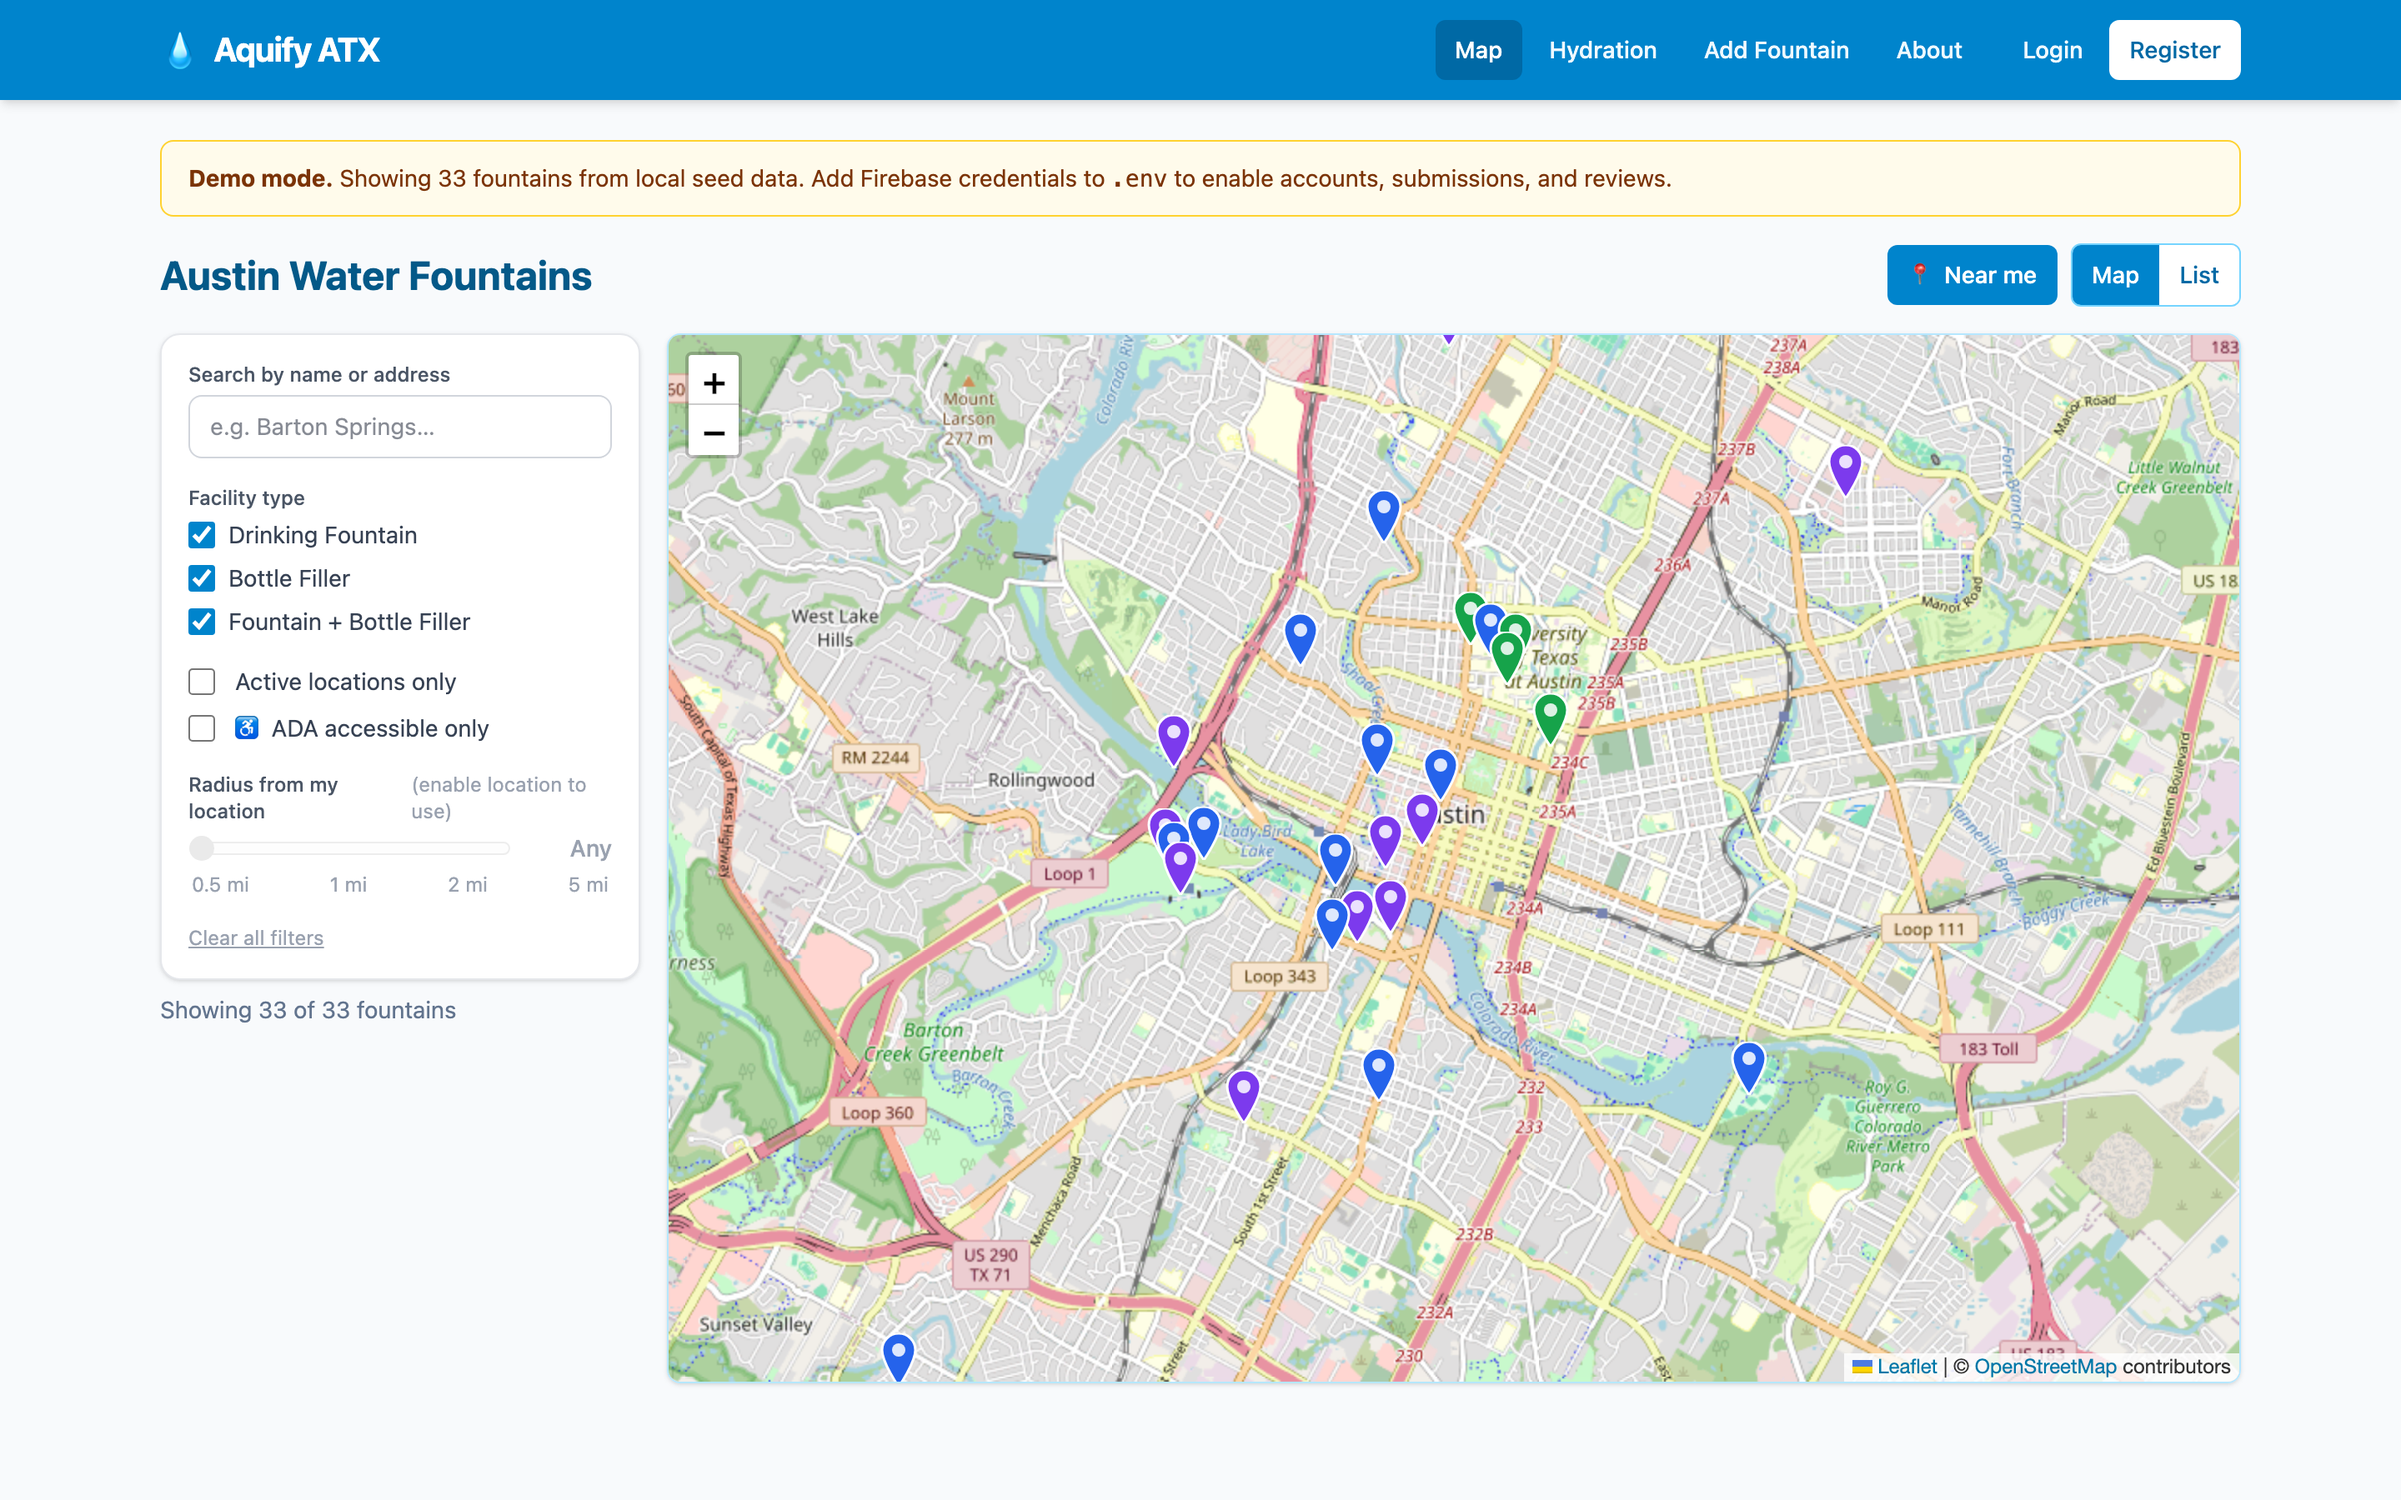
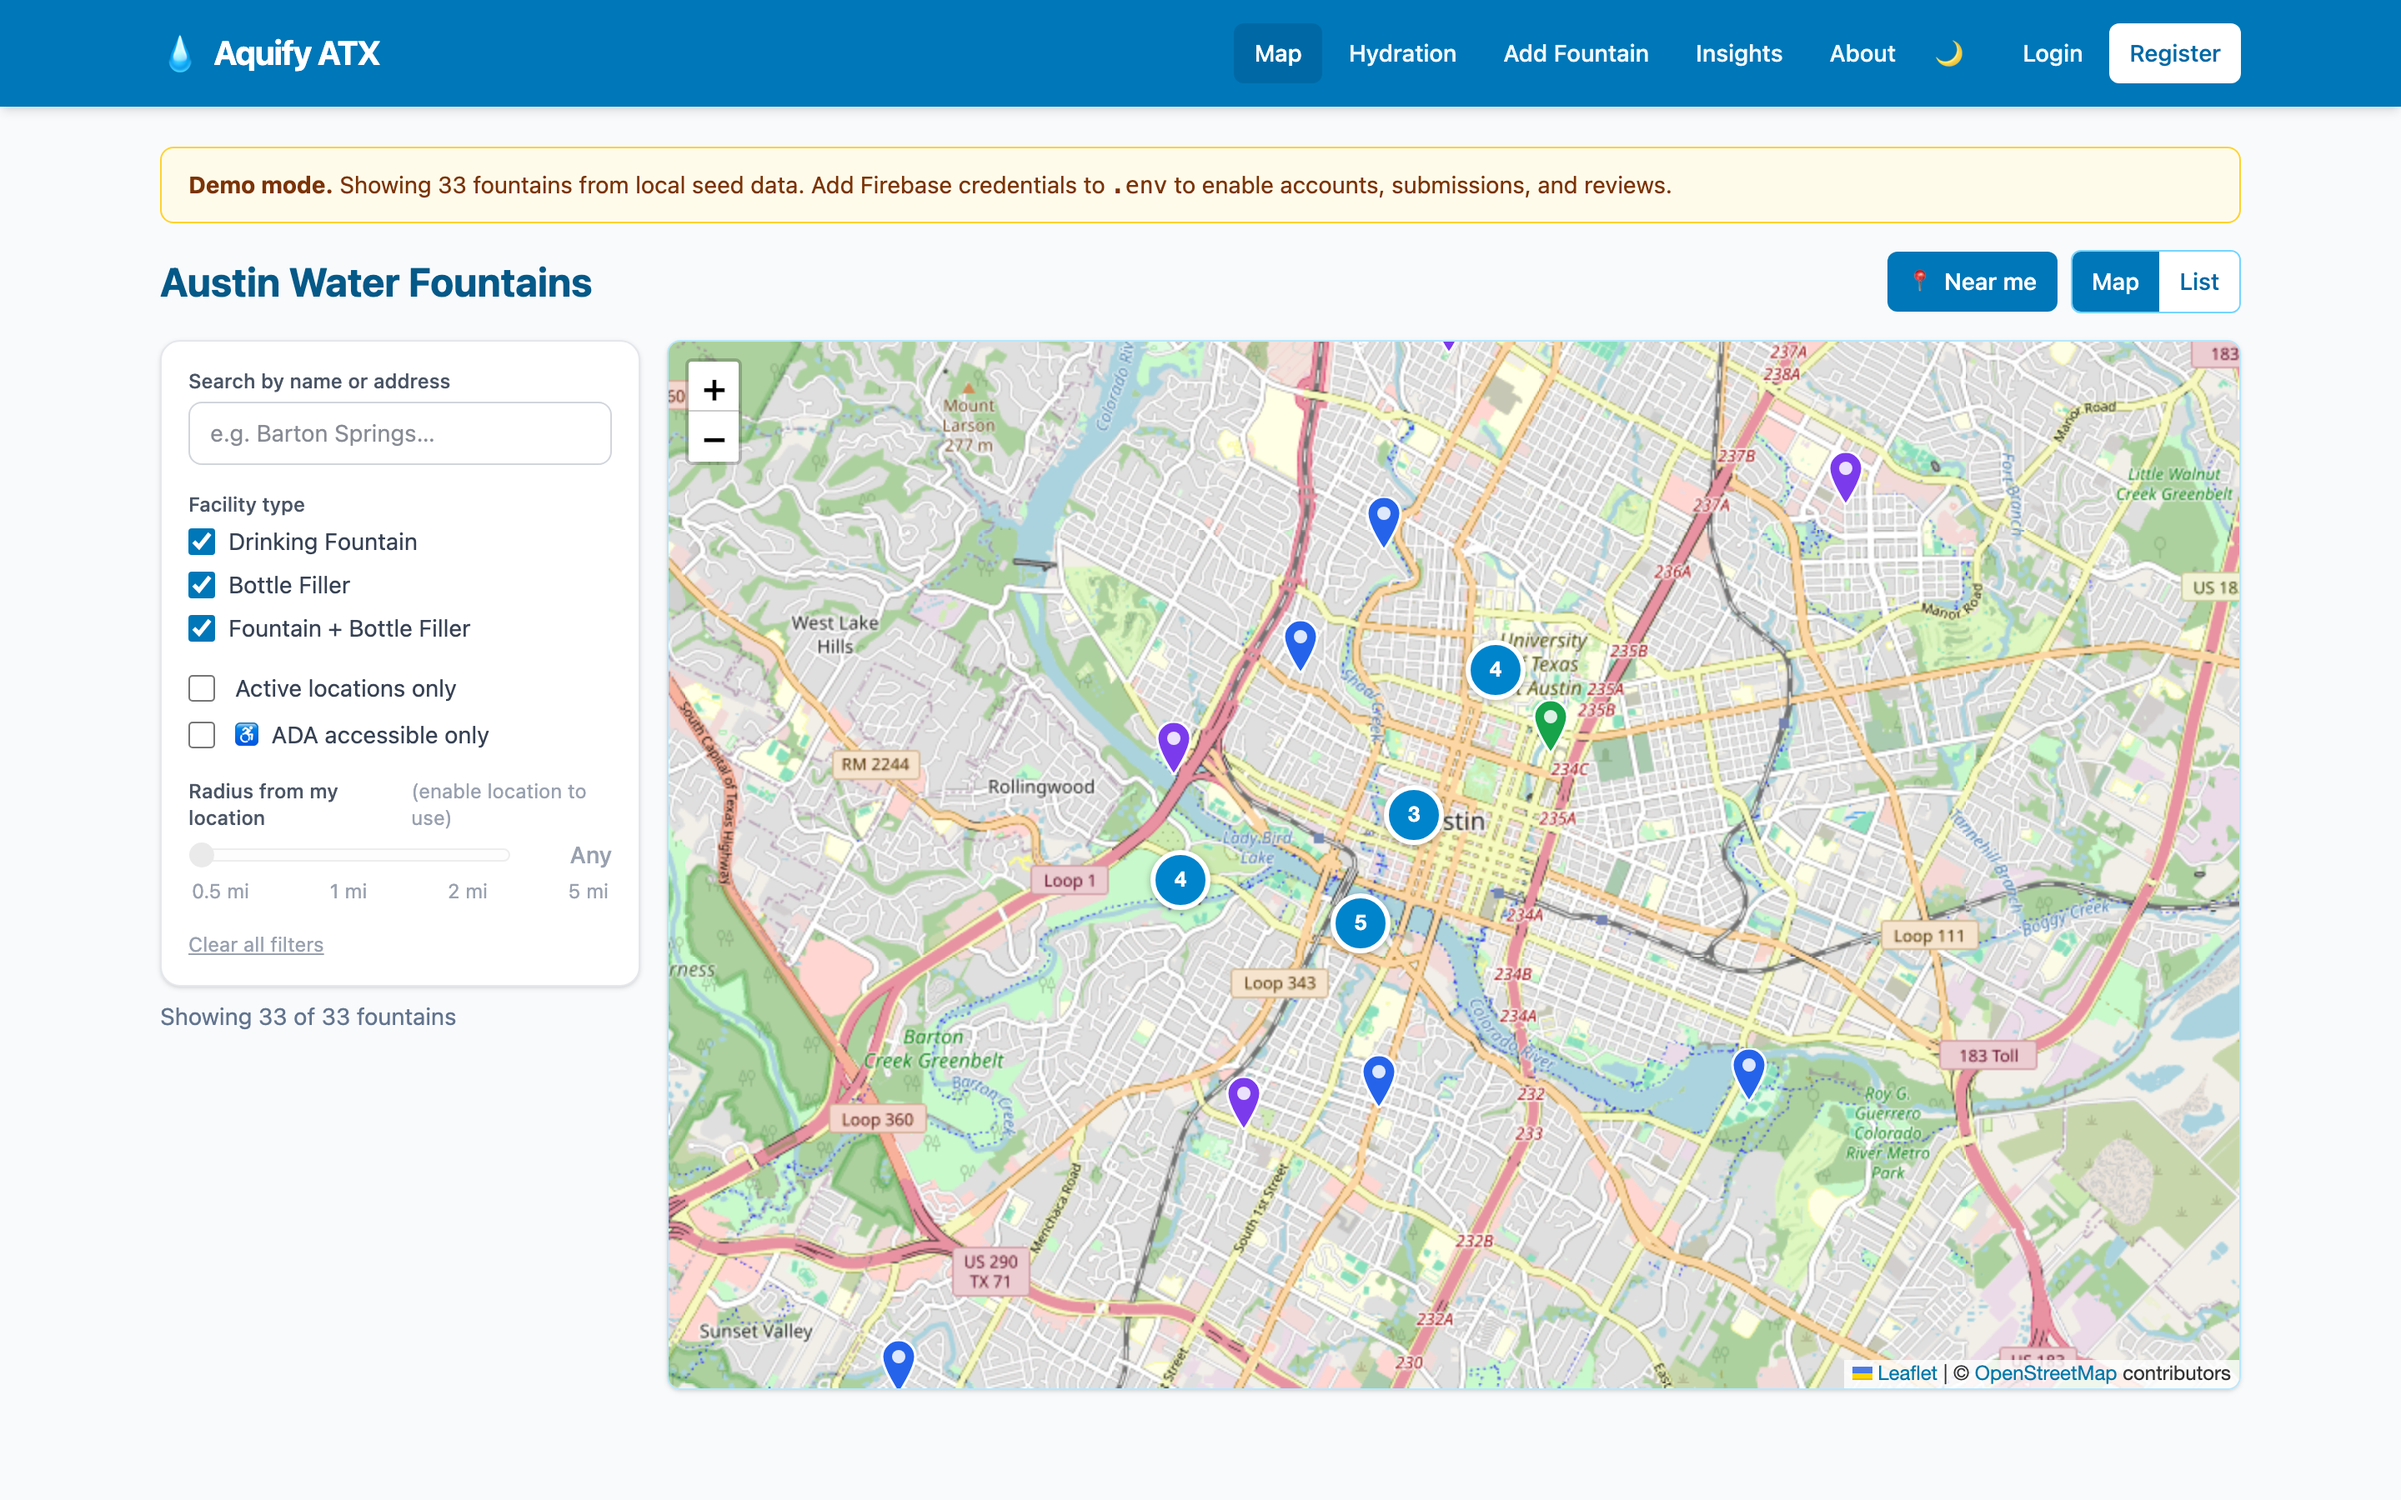
docs: refresh screenshots + capture Insights and dark mode
The README screenshots predated several features. Regenerated all of them
and extended scripts/screenshots.mjs to also capture:
- the Insights dashboard (data-viz charts)
- dark mode on the map (also shows marker clustering)

Added both to the README screenshot gallery. No app code changed.

diff --git a/README.md b/README.md
@@ -69,6 +69,22 @@ A few deliberate engineering bets:
 
 </td>
 </tr>
+<tr>
+<td align="center" width="50%">
+
+**Insights dashboard**
+
+![Fountain insights — totals plus bar charts by facility type, status, and ADA accessibility](docs/screenshots/insights.png)
+
+</td>
+<td align="center" width="50%">
+
+**Dark mode + marker clustering**
+
+![Dark-themed map view with clustered fountain markers showing counts](docs/screenshots/dark-map.png)
+
+</td>
+</tr>
 </table>
 
 <p align="center">
